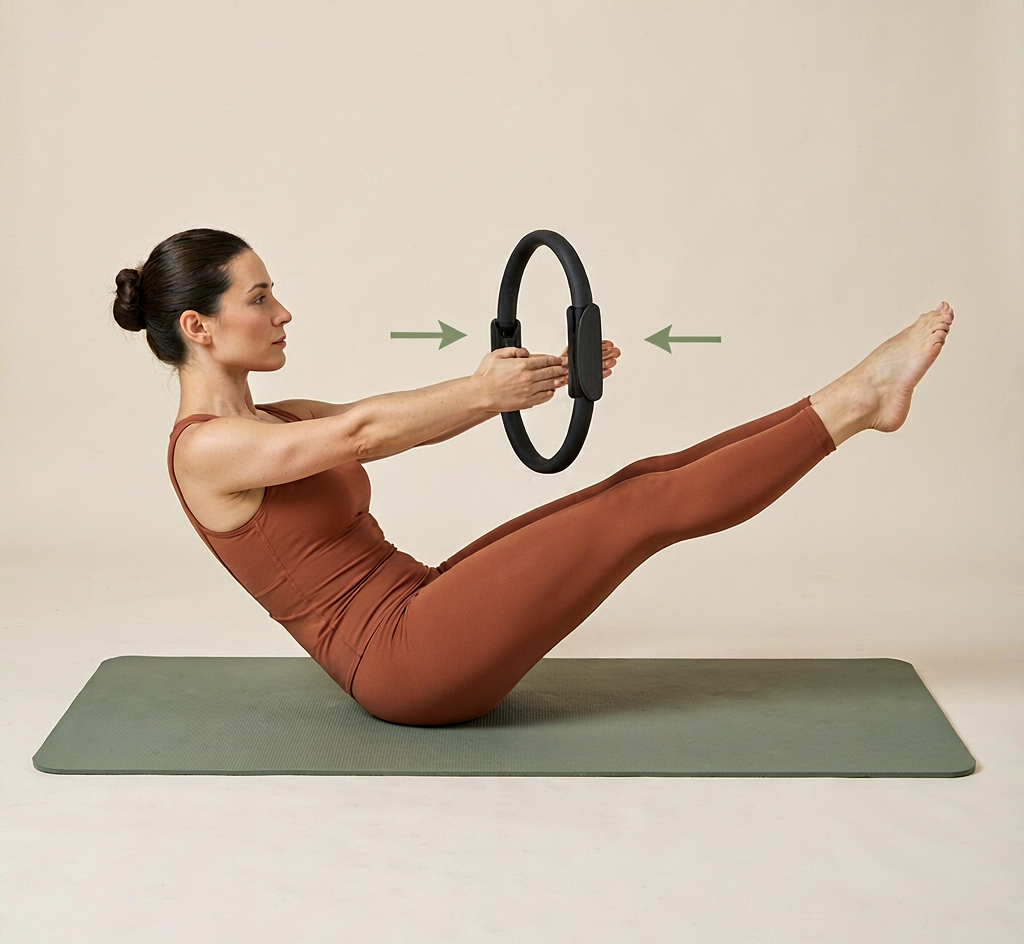
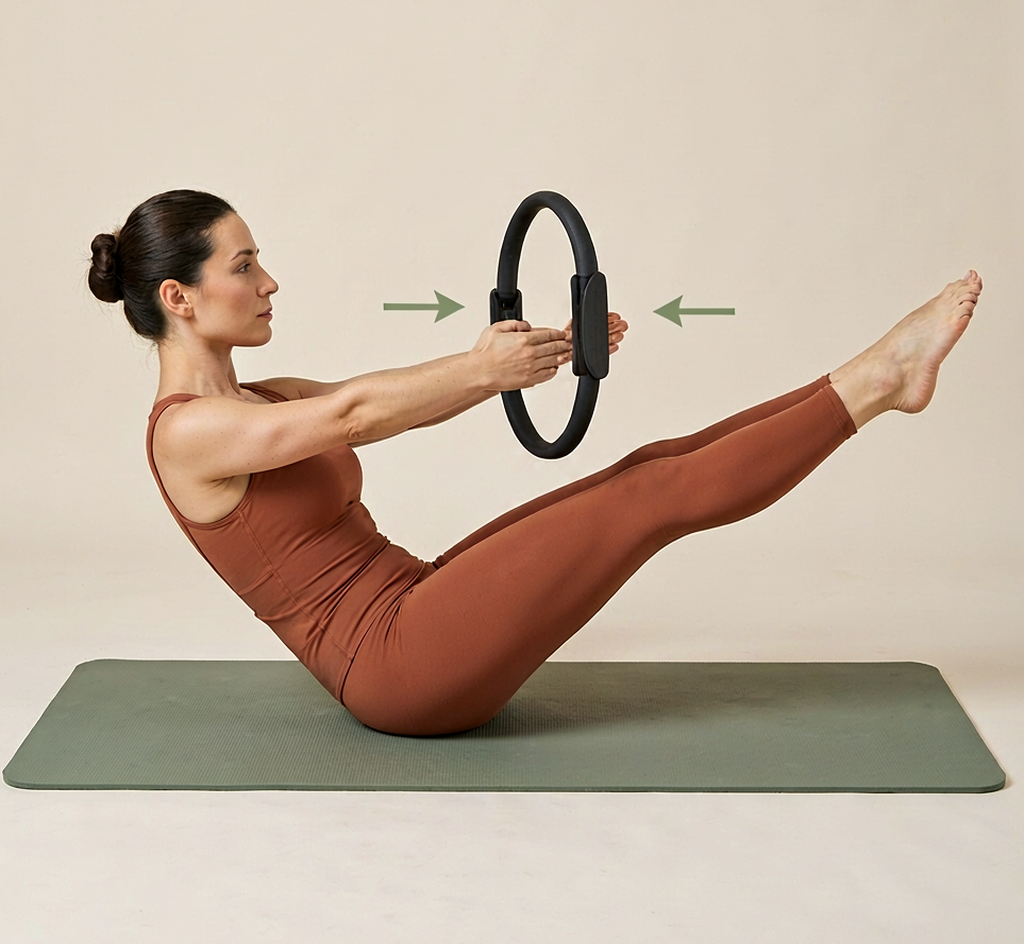
Zoom undersized subjects in small apparatus 6/8/10/11/12 for size consistency

diff --git a/src/App.tsx b/src/App.tsx
@@ -284,13 +284,13 @@ const matAlignedImages: Record<string, string> = {
 
 const smallApparatusAlignedImages: Record<string, string> = {
   'Magic Circle Chest Press': 'assets/small-apparatus/1.png?v=1',
-  'Magic Circle Teaser': 'assets/small-apparatus/6.png?v=1',
+  'Magic Circle Teaser': 'assets/small-apparatus/6.png?v=2',
   'Small Ball Ab Curl': 'assets/small-apparatus/7.png?v=1',
-  'Small Ball Bridge': 'assets/small-apparatus/8.png?v=1',
+  'Small Ball Bridge': 'assets/small-apparatus/8.png?v=2',
   'Resistance Band Row': 'assets/small-apparatus/9.png?v=1',
-  'Resistance Band Leg Press': 'assets/small-apparatus/10.png?v=1',
-  'Foam Roller Balance': 'assets/small-apparatus/11.png?v=1',
-  'Foam Roller Arm Arcs': 'assets/small-apparatus/12.png?v=1',
+  'Resistance Band Leg Press': 'assets/small-apparatus/10.png?v=2',
+  'Foam Roller Balance': 'assets/small-apparatus/11.png?v=2',
+  'Foam Roller Arm Arcs': 'assets/small-apparatus/12.png?v=2',
   'Magic Circle Bridge Squeeze': 'assets/small-apparatus/3.png?v=1',
   'Magic Circle Overhead Press': 'assets/small-apparatus/4.png?v=1',
 }
